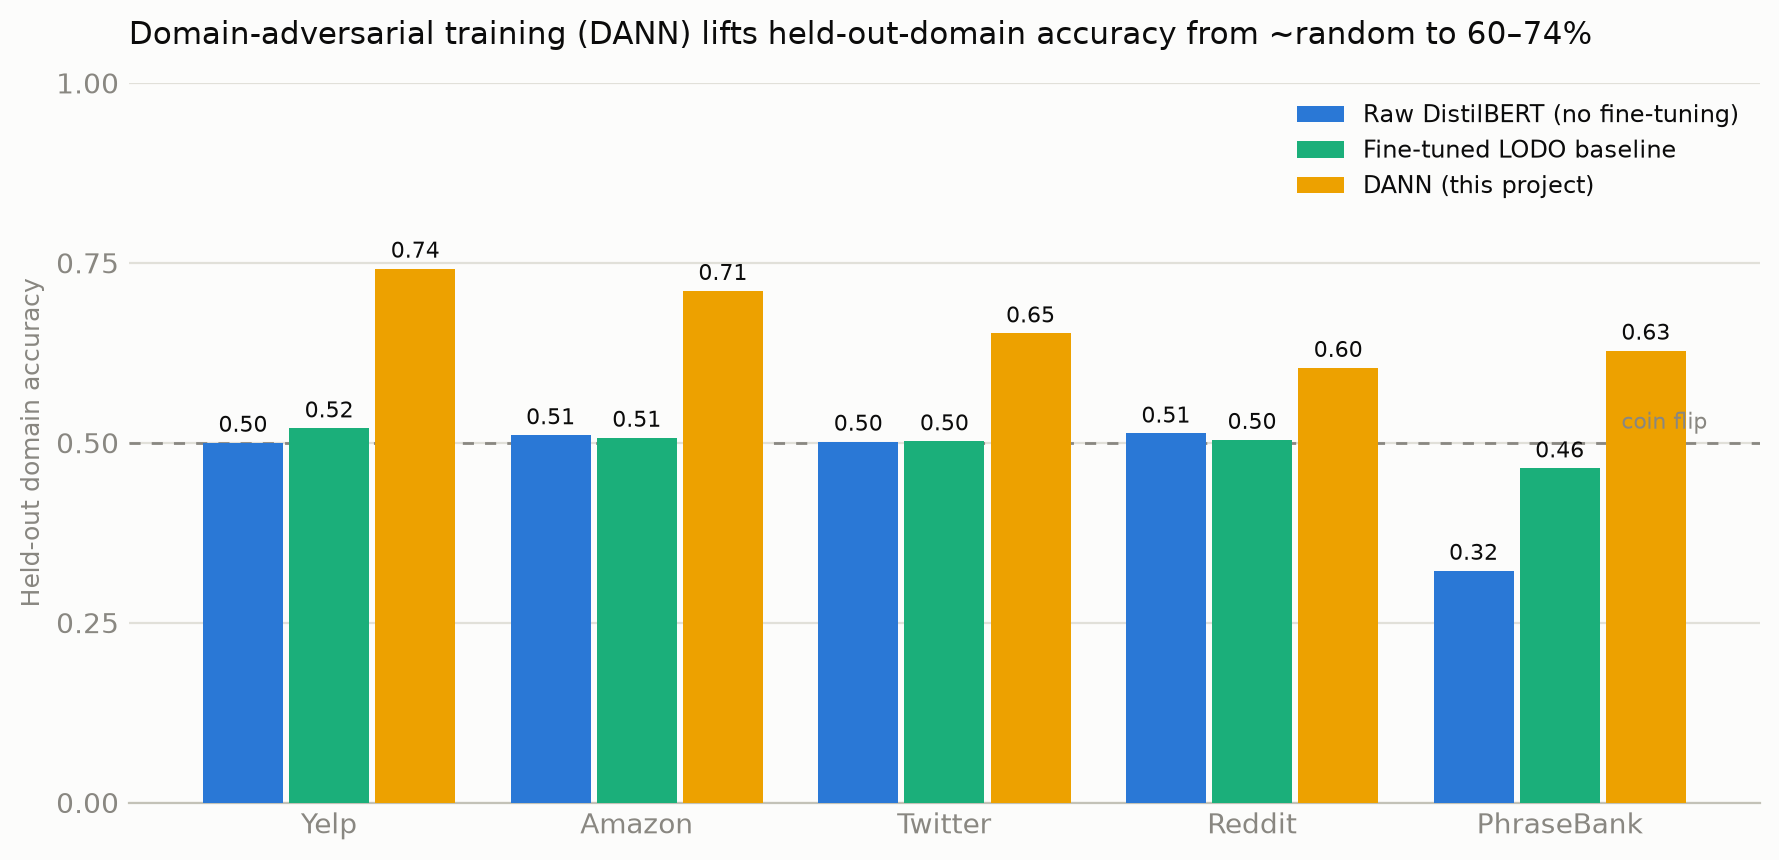
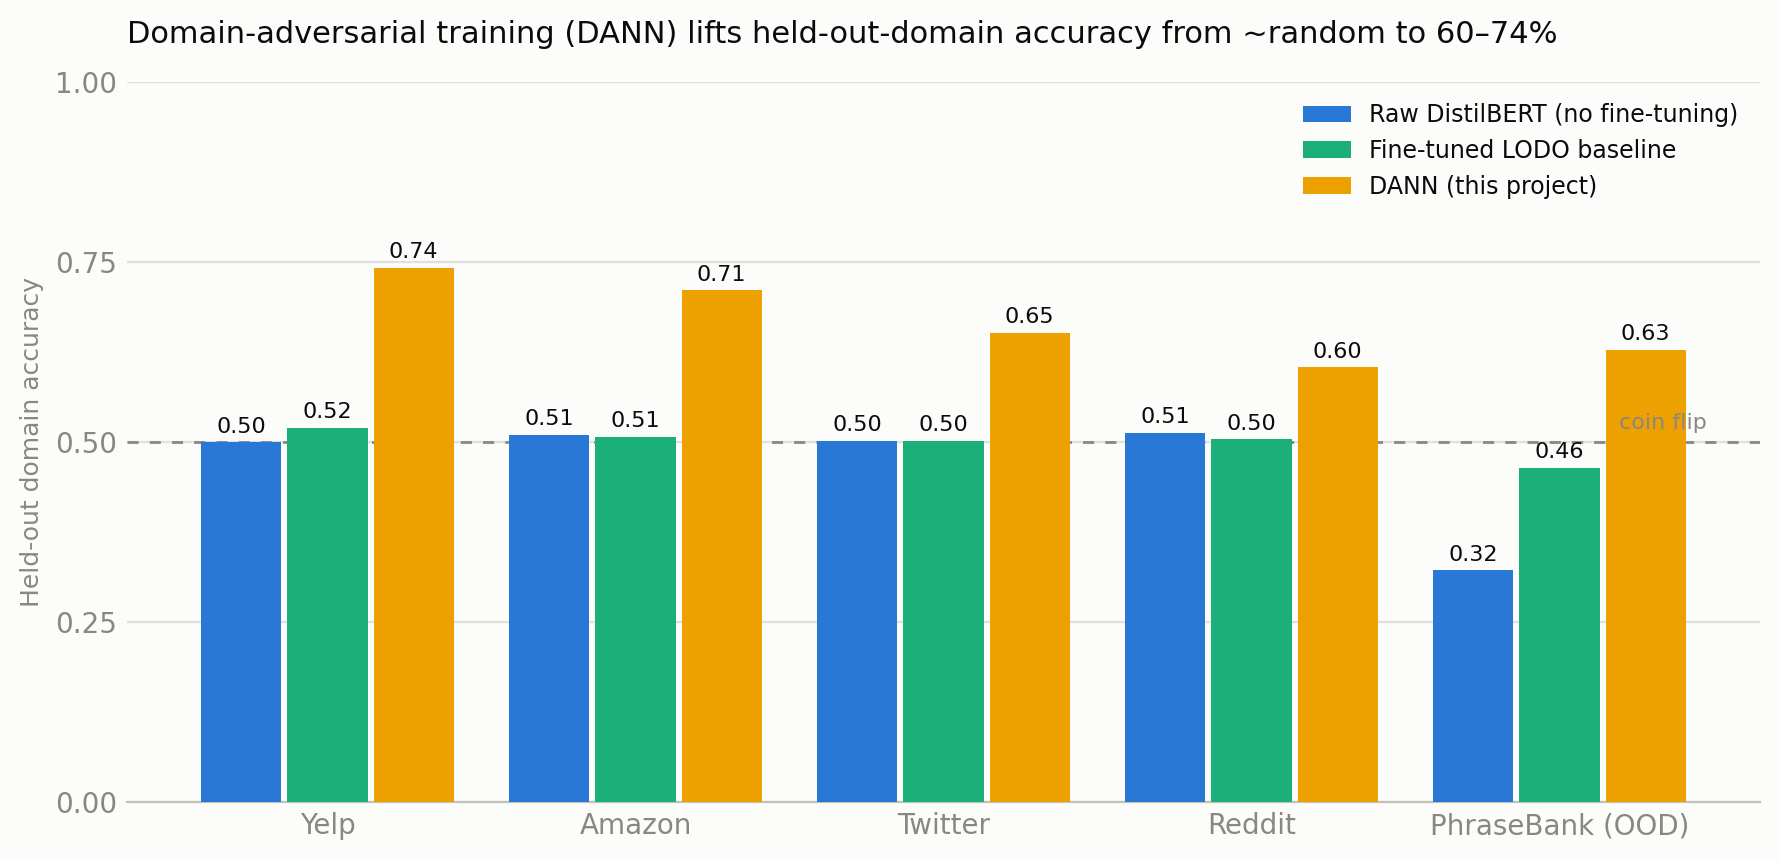
Chart: label PhraseBank tick as OOD to match the README table
PhraseBank is an out-of-domain probe, not a LODO held-out domain; regenerate
docs/img/results_{light,dark}.png. Plotted numbers unchanged.

diff --git a/scripts/make_results_chart.py b/scripts/make_results_chart.py
@@ -12,7 +12,7 @@ from pathlib import Path
 import matplotlib.pyplot as plt
 import numpy as np
 
-DOMAINS = ["Yelp", "Amazon", "Twitter", "Reddit", "PhraseBank"]
+DOMAINS = ["Yelp", "Amazon", "Twitter", "Reddit", "PhraseBank (OOD)"]
 
 # report/final_report.pdf Table 1 (Raw DistilBERT, fine-tuned LODO model) and Table 2 (DANN)
 RAW_DISTILBERT = [0.5000, 0.5105, 0.5015, 0.5128, 0.3221]